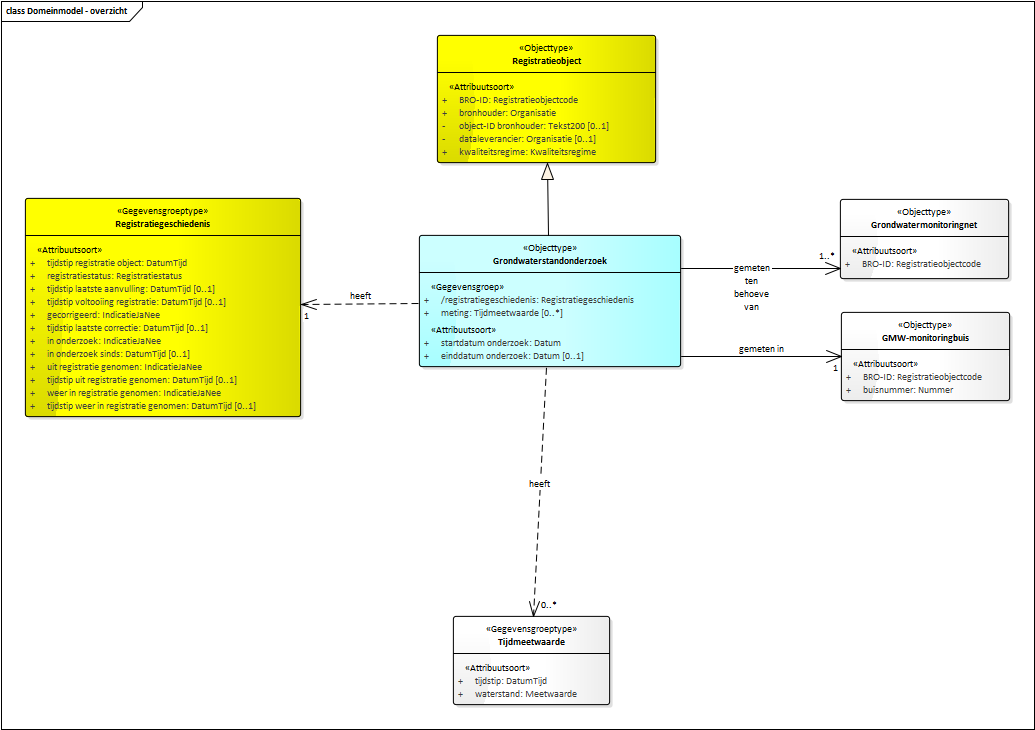
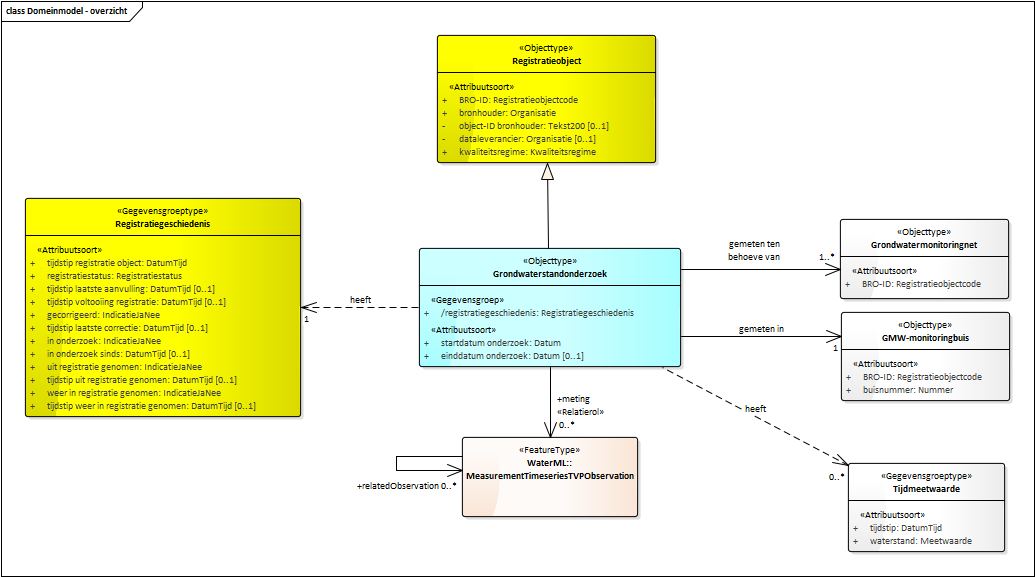
Conceptualmodel-GrondwaterstandonderzoekGLD-0.9-3-20191003-20191004-164515

diff --git a/data/GLD-cat.msword.html b/data/GLD-cat.msword.html
@@ -8,7 +8,7 @@
    <body>
       <p>Conceptual model/Grondwaterstandonderzoek (GLD)/20191003</p>
       <p>Imvertor: 1.55.1</p>
-      <p>Model release: Conceptualmodel-GrondwaterstandonderzoekGLD-0.9-3-20191003-20191004-154412</p>
+      <p>Model release: Conceptualmodel-GrondwaterstandonderzoekGLD-0.9-3-20191003-20191004-164515</p>
       <hr>
       <section id="global_class_Model_Registratieobject" level="3">
          <h1>Artikel 1     Registratieobject</h1>
@@ -73,11 +73,11 @@
                         gemeten in 1 
                         <a class="link" href="#global_class_Model_GMWMonitoringbuis">GMW-monitoringbuis</a>
                         <br>Grondwaterstandonderzoek 
+                        meting 0, 1 of meer 
+                        MeasurementTimeseriesTVPObservation
+                        <br>Grondwaterstandonderzoek 
                         registratiegeschiedenis 1 
                         <a class="link" href="#global_class_Model_Registratiegeschiedenis">Registratiegeschiedenis</a>
-                        <br>Grondwaterstandonderzoek 
-                        meting 0, 1 of meer 
-                        <a class="link" href="#global_class_Model_Tijdmeetwaarde">Tijdmeetwaarde</a>
                         <br></td>
                   </tr>
                </tbody>
@@ -984,13 +984,6 @@
                         
                      </td>
                   </tr>
-                  <tr>
-                     <th>Relaties met andere entiteiten</th>
-                     <td>
-                        <a class="link" href="#global_class_Model_Grondwaterstandonderzoek">Grondwaterstandonderzoek</a>
-                        
-                        meting 0, 1 of meer Tijdmeetwaarde<br></td>
-                  </tr>
                </tbody>
             </table><a class="anchor" name="detail_attribute_Model_Tijdmeetwaarde_tijdstip"></a><section id="detail_attribute_Model_Tijdmeetwaarde_tijdstip" level="5">
                <h3>  tijdstip</h3>
@@ -1840,11 +1833,11 @@
       <section id="" level="3">
          <h1>Artikel 4 Het domeinmodel</h1>
          <div class="imageinfo overview"><img src="Images/EAID_08E27657_5603_4b75_BB8B_47B282A97D63.png" usemap="#imagemap-EAID_08E27657_5603_4b75_BB8B_47B282A97D63"><map name="imagemap-EAID_08E27657_5603_4b75_BB8B_47B282A97D63">
-               <area shape="rect" coords="840,279,1009,199" alt="" href="#graph_EAID_68FD3B87_BA7B_485e_A5DC_4804CB98C818">
-               <area shape="rect" coords="453,705,610,616" alt="" href="#graph_EAID_5FC959F0_5ED2_47e7_8C6C_68C408128425">
+               <area shape="rect" coords="840,299,1009,219" alt="" href="#graph_EAID_68FD3B87_BA7B_485e_A5DC_4804CB98C818">
+               <area shape="rect" coords="848,552,1005,463" alt="" href="#graph_EAID_5FC959F0_5ED2_47e7_8C6C_68C408128425">
                <area shape="rect" coords="25,417,301,198" alt="" href="#graph_EAID_0D009A59_1E9A_4fc2_867A_9006A9464AA7">
                <area shape="rect" coords="841,401,1010,312" alt="" href="#graph_EAID_3337CDCE_0A5D_4aee_AEB0_14AF7652B102">
-               <area shape="rect" coords="419,367,681,235" alt="" href="#graph_EAID_5876720F_795D_40b5_82B8_BC782B71FA3A">
+               <area shape="rect" coords="419,367,681,248" alt="" href="#graph_EAID_5876720F_795D_40b5_82B8_BC782B71FA3A">
                <area shape="rect" coords="437,163,656,35" alt="" href="#graph_EAID_04FC4CF0_BE4E_421a_A62C_E3F00BED26A0"></map><p><b>Domeinmodel - overzicht</b></p>
          </div>
       </section>
